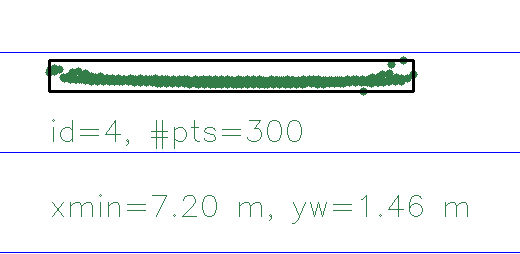
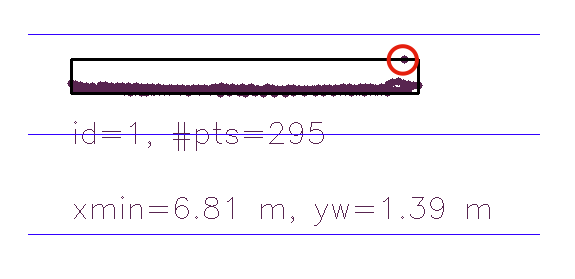
update readme

diff --git a/README.md b/README.md
@@ -39,35 +39,142 @@ In this final project, you will implement the missing parts in the schematic. To
 ## Final Project
 
 1. FP.1: Match 3D objects
+    * count each keypoints for every bounding boxes
+    * If there are the most counters, it is judged that a match has been made.
+``` cpp
+void matchBoundingBoxes(std::vector<cv::DMatch> &matches, std::map<int, int> &bbBestMatches, DataFrame &prevFrame, DataFrame &currFrame)
+{
+    for (const auto prevBox : prevFrame.boundingBoxes)
+    {
+        int max_counter = 0;
+        for (const auto currBox : currFrame.boundingBoxes)
+        {
+            int counter = 0;
+            for (const auto match : matches)
+            {
+                const cv::Point2f prevPt = prevFrame.keypoints[match.queryIdx].pt;
+                const cv::Point2f currPt = currFrame.keypoints[match.trainIdx].pt;
+
+                if (prevBox.roi.contains(prevPt) && currBox.roi.contains(currPt))
+                {
+                    counter++;
+                }
+            }
+            if (counter > max_counter)
+            {
+                max_counter = counter;
+                bbBestMatches[prevBox.boxID] = currBox.boxID;
+            }
+        }
+    }
+}
+```
+
 2. FP.2: Compute Lidar-based TTC
-    * reference: Lesson 3
-    * TTC = minXCurr * dT / (minXPrev - minXCurr)
+    * find minimum x-direction distance both previous and current
+    * And then calculate. TTC = minXCurr * dT / (minXPrev - minXCurr)
+``` cpp
+        for (auto it = lidarPointsPrev.begin(); it != lidarPointsPrev.end(); ++it)
+    {
+        minXPrev = minXPrev > it->x ? it->x : minXPrev;
+    }
+
+    for (auto it = lidarPointsCurr.begin(); it != lidarPointsCurr.end(); ++it)
+    {
+        minXCurr = minXCurr > it->x ? it->x : minXCurr;
+    }
+    TTC = minXCurr * dT / (minXPrev - minXCurr);
+```
+
 3. FP.3 : Associate Keypoint Correspondences with Bounding Boxes
     * check current point is in bounding box or not
     * if inside bounding box, add keypoint and match
+    * To remove outlier, I used IQR method
+``` cpp
+void clusterKptMatchesWithROI(BoundingBox &boundingBox, std::vector<cv::KeyPoint> &kptsPrev, std::vector<cv::KeyPoint> &kptsCurr, std::vector<cv::DMatch> &kptMatches)
+{
+    vector<float> matchedDistances;
+    float tempDistance;
+    for (auto match : kptMatches)
+    {
+        const cv::KeyPoint kptPrev = kptsPrev[match.queryIdx];
+        const cv::KeyPoint kptCurr = kptsCurr[match.trainIdx];
+        tempDistance = sqrt(pow(kptPrev.pt.x-kptCurr.pt.x, 2) + pow(kptPrev.pt.y-kptCurr.pt.y, 2));
+        matchedDistances.push_back(tempDistance);     
+    }
+
+    sort(matchedDistances.begin(), matchedDistances.end());
+
+    const float Q1 = matchedDistances[matchedDistances.size() / 4];
+    const float Q3 = matchedDistances[matchedDistances.size() * 3/ 4];
+    const float IQR = Q3 - Q1;
+    const float lowOutlier = Q1 - 1.5 * IQR;
+    const float highOutlier = Q3 + 1.5 * IQR;
+
+    for (auto match : kptMatches)
+    {
+        const cv::KeyPoint kptPrev = kptsPrev[match.queryIdx];
+        const cv::KeyPoint kptCurr = kptsCurr[match.trainIdx];
+        tempDistance = sqrt(pow(kptPrev.pt.x-kptCurr.pt.x, 2) + pow(kptPrev.pt.y-kptCurr.pt.y, 2));
+
+        if (boundingBox.roi.contains(kptCurr.pt) && lowOutlier < tempDistance && tempDistance < highOutlier )
+        {
+            boundingBox.keypoints.push_back(kptCurr);
+            boundingBox.kptMatches.push_back(match);
+        }
+    }
+}
+```
+
+
 4. FP.4 : Compute Camera-based TTC
     * Make the ratio the distances each frame. (distCurr/ distPrev)
     * Calculate the TTC with median of ratio.
+``` cpp
+void computeTTCCamera(std::vector<cv::KeyPoint> &kptsPrev, std::vector<cv::KeyPoint> &kptsCurr, 
+                      std::vector<cv::DMatch> kptMatches, double frameRate, double &TTC, cv::Mat *visImg)
+{
+    vector<double> distRatios;
+    for (int i = 0; i < kptMatches.size(); i++)
+    {
+        const cv::KeyPoint originPrev = kptsPrev[kptMatches[i].queryIdx];
+        const cv::KeyPoint originCurr = kptsCurr[kptMatches[i].trainIdx];
+        for (int j = i; j < kptMatches.size(); j++)
+        {
+            const cv::KeyPoint kptPrev = kptsPrev[kptMatches[j].queryIdx];
+            const cv::KeyPoint kptCurr = kptsCurr[kptMatches[j].trainIdx];
+            const double distPrev = sqrt(pow(kptPrev.pt.x-originPrev.pt.x, 2) + pow(kptPrev.pt.y-originPrev.pt.y, 2));
+            const double distCurr = sqrt(pow(kptCurr.pt.x-originCurr.pt.x, 2) + pow(kptCurr.pt.y-originCurr.pt.y, 2));
+            distRatios.push_back(distCurr / distPrev);          
+        }
+    }
+    // compute camera-based TTC from distance ratios
+    double medianDistRatio;
+    nth_element(distRatios.begin(), distRatios.begin() + distRatios.size() / 2, distRatios.end());
+    medianDistRatio = distRatios[distRatios.size() / 2];
+    double dT = 1 / frameRate;
+    TTC = -dT / (1-medianDistRatio);
+}
+```
+
 5. FP.5 : Performance Evaluation 1
     * Look for several examples where you have the impression that the Lidar-based TTC estimate is way off
-<<<<<<< HEAD
     * provide a sound argumentation why you think this happened  
-=======
-    * provide a sound argumentation why you think this happened
->>>>>>> d48d67543237a7b1462d5e29a110471a2f97b1ff
     * Good case  
-    <img src = "refdata/example_images/goodCase1.png" width = 300>
-    <img src = "refdata/example_images/goodCase2.png" width = 300>
+    <img src = "refdata/example_images/goodCase1.png" width = 300>  
+    <img src = "refdata/example_images/goodCase2.png" width = 300>  
+    There is no outlier point in the two photos above
     
     * Bad case  
-    <img src = "refdata/example_images/badCase0.png" width = 300>
-    <img src = "refdata/example_images/badCase1.png" width = 300>
-    <img src = "refdata/example_images/badCase2.png" width = 300>
+    <img src = "refdata/example_images/badCase0.png" width = 300>  
+    purple point (above image, inside red circle) is outlier, but it does not affect ttc. because that point far from ego vehicle  
+    <img src = "refdata/example_images/badCase1.png" width = 300>  
+    green point (above image, inside red circle) is outlier, and it affect ttc. because that point affect x min value, and it makes ttc shorter than real world
 
-<<<<<<< HEAD
+
     * To terminate outlier, I used Normal Distribution method. see below result  
-    <img src = "refdata/example_images/NormalDistributionGraph.jpg" width = 200>
-    <img src = "refdata/example_images/ttcDiff.png" width = 200>
+    <img src = "refdata/example_images/NormalDistributionGraph.jpg" width = 200>  
+    <img src = "refdata/example_images/ttcDiff.png" width = 200>  
   6. FP.6 : Performance Evaluation 2
      * Compare lidar ttc and camera ttc (all variation)
      * Rank performance
@@ -77,9 +184,4 @@ In this final project, you will implement the missing parts in the schematic. To
      * See below table (-inf or nan occur, I assigned 100 to calculate)
 
 <img src = "refdata/example_images/finalResult.png">
-=======
-    * To reduce outlier, I used Normal Distribution method. see below result  
-    <img src = "refdata/example_images/NormalDistributionGraph.jpg" width = 200>
-    <img src = "refdata/example_images/ttcDiff.png" width = 200>
->>>>>>> d48d67543237a7b1462d5e29a110471a2f97b1ff
 
